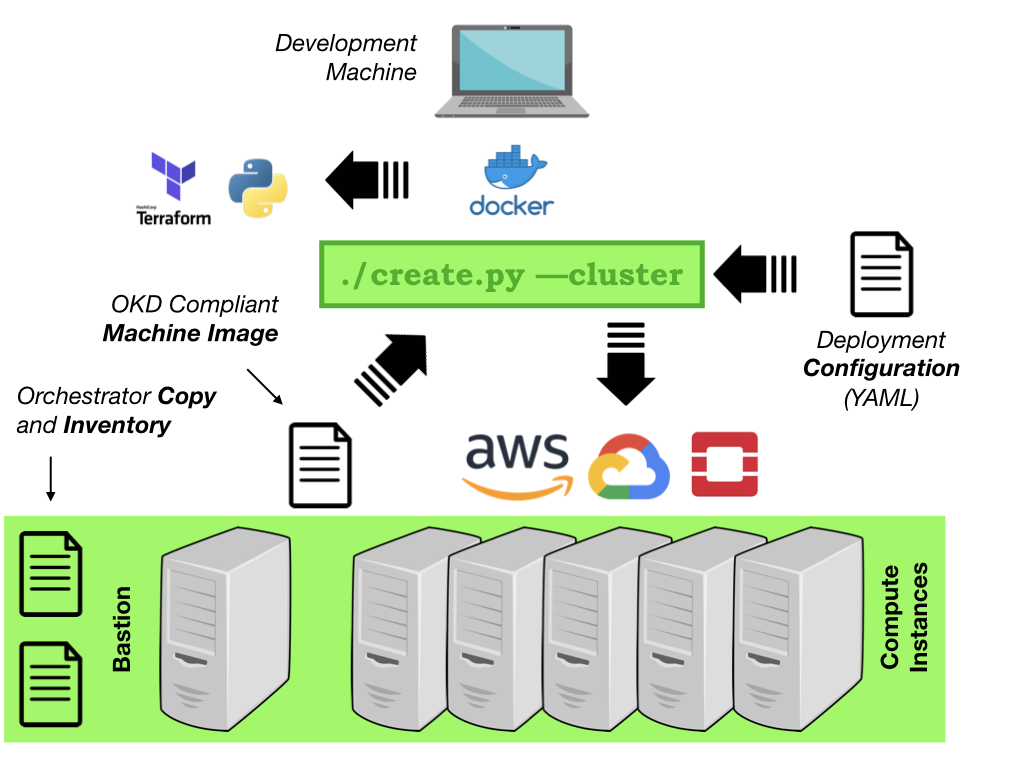
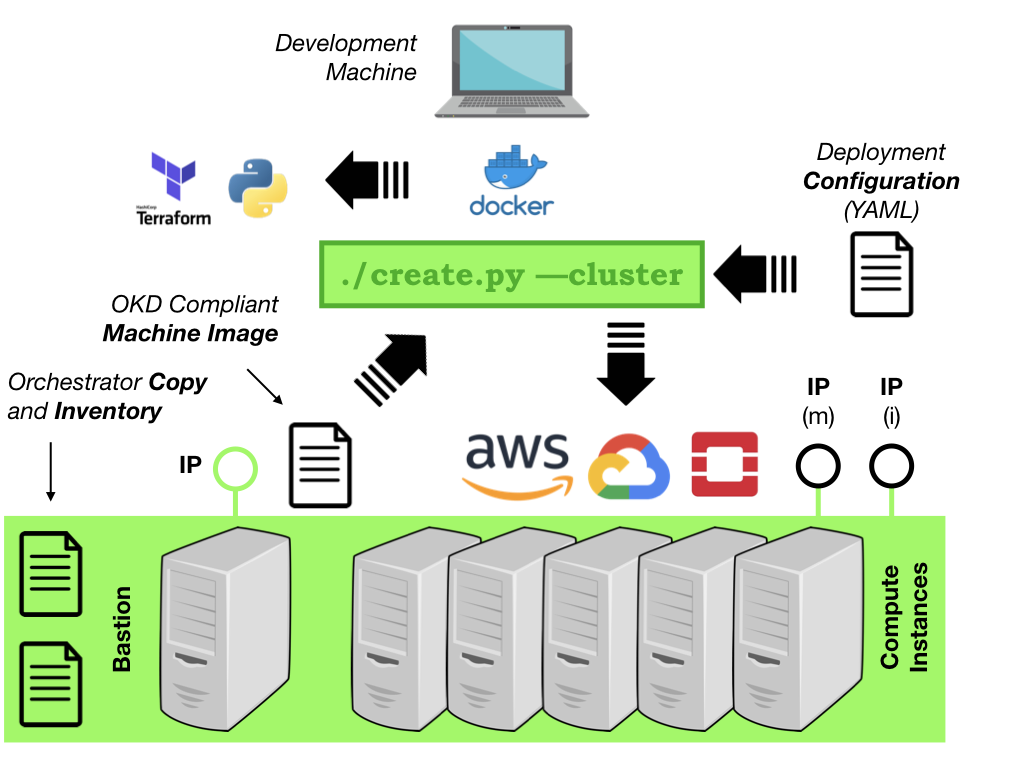
- Adjustments to images 4 & 5

diff --git a/docs/source/orientation.rst b/docs/source/orientation.rst
@@ -282,8 +282,8 @@ something like this: -
 
 ..  image:: ../images/okd-orchestrator.012.png
 
-Step 4 - DEPLOY OpensShift OKD
-==============================
+Step 4 - DEPLOY OpenShift OKD
+=============================
 
 ..  image:: ../images/okd-orchestrator.010.png
 
